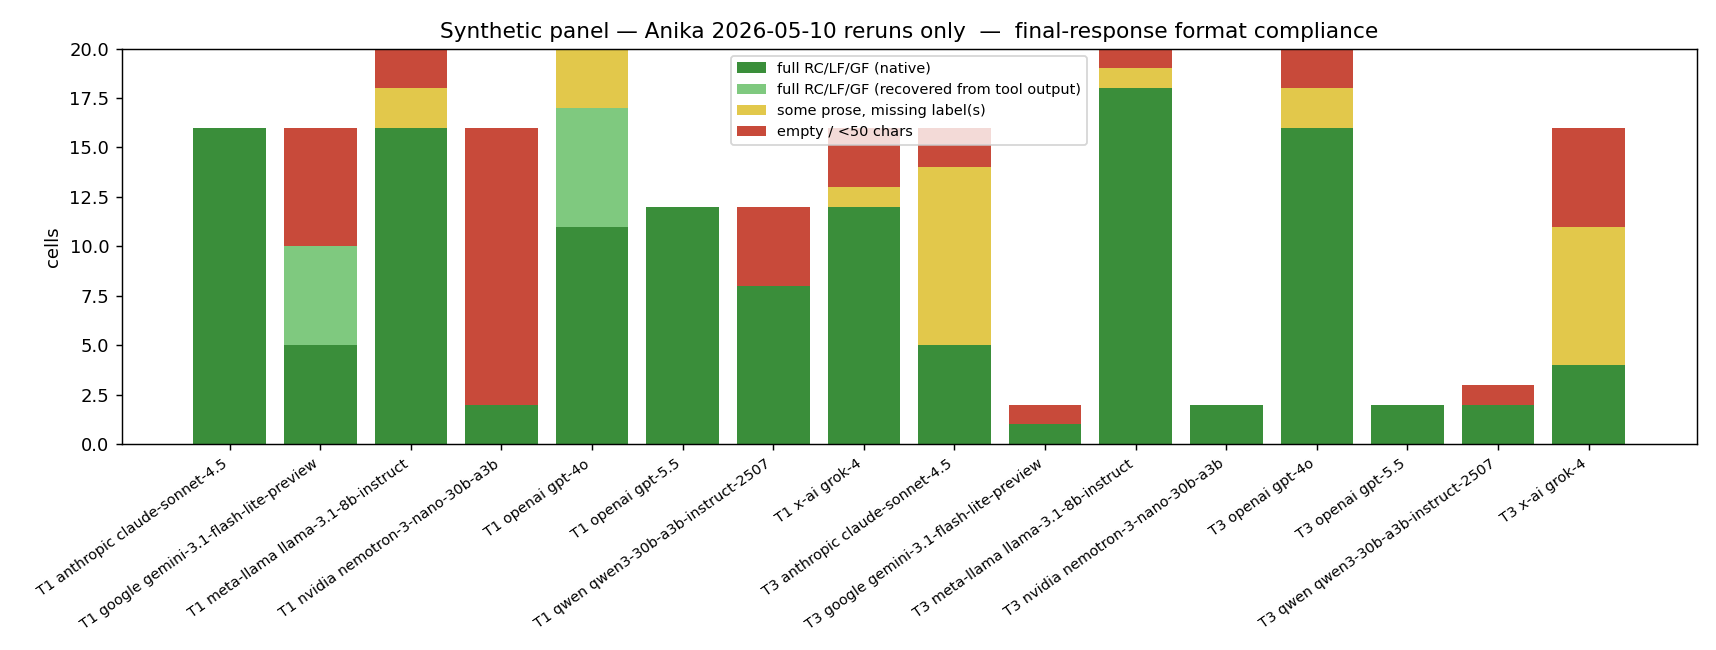
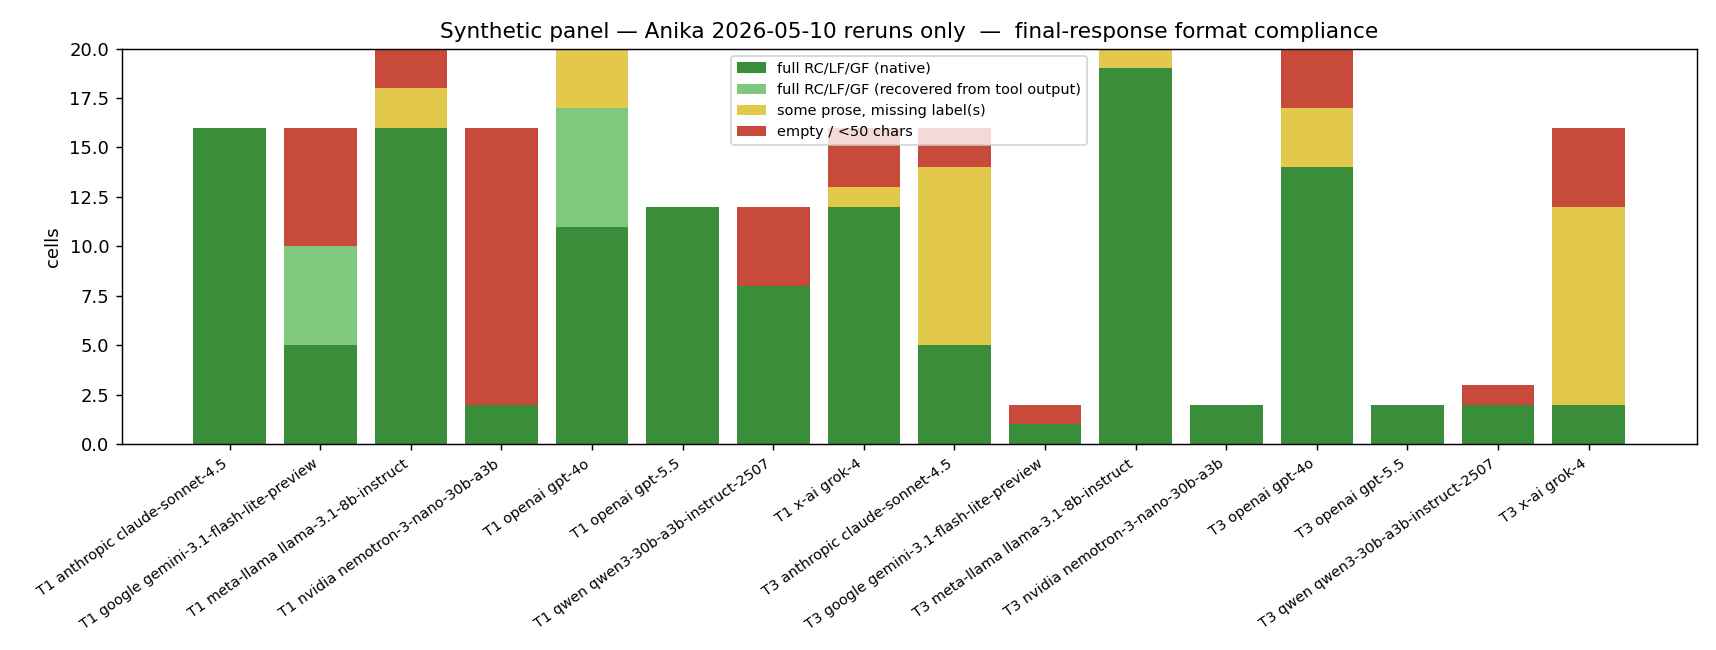
bench: SYNTHETIC_PANEL_FINDINGS — single-doc state of the world
Synthesizes everything Anika's session learned + open decisions about
whether anything needs to be rerun before the judge pass:

§1 Where we landed: 320/320 cells, 297 ok, 171 full RC/LF/GF
§2 Five infra fixes that landed this session (with commit refs)
§3 What the data shows:
   - T1 model ordering is clean; small/mid models (llama, grok, gemini-fl)
     cluster within 4 cells of sonnet
   - T3 label-match metric is misleading — most "partial prose" cells
     contain real diagnoses, just without the literal RC/LF/GF labels;
     the judge reads prose not labels
   - The "stopped (no-signal)" T3 bug was real and is now fixed
§4 Open decisions:
   - Should T3 be rerun again with force-emit-labels intervention?
   - Should nemotron T1 timeouts be retried?
   - Should T1 still-empty cells get a recovery-v2?
   - Should archived pre-prompt-fix T3 cells be rerun?
   - When to run the judge
§5 Cost matrix per option
§6 What Ibraheem needs (just: pull the branch + run recovery + run
   judge — no need to know about §4 decisions)
§7 Files of record

Recommendation across the board: §4.1 Option A (accept data, run judge),
optionally §4.2 (nemotron T1 timeout rerun ~$1, ~10 min). Everything
else is either real code work or unclear payoff.

diff --git a/bench/SYNTHETIC_PANEL_FINDINGS.md b/bench/SYNTHETIC_PANEL_FINDINGS.md
@@ -1,0 +1,312 @@
+# Synthetic panel — findings, open decisions, and rerun cost matrix
+
+Author: Anika's Claude session (2026-05-11). Branch: `push/local-runs-anika`.
+Companion docs: `bench/SETUP_LOG_anika_synthetic.md` (host setup log),
+`bench/RUNNER_HANDOFF_ibraheem_addendum.md` (what changed for Adroit),
+`bench/prompts_T1_T3.md` (verbatim prompt snapshot).
+
+## §1. Where we landed
+
+| Tier | Cells | status=ok | timeout | no_collect | full RC/LF/GF | partial prose | empty |
+|---|---:|---:|---:|---:|---:|---:|---:|
+| T1 | 160 | 140 | 20 | 0 | **111 native + 13 recovered = 124** | 13 | 36 |
+| T3 | 160 | 157 | 0 | 3 | **47** | 93 | 20 |
+| **total** | **320** | **297** | **20** | **3** | **171** | **106** | **56** |
+
+Per-model breakdown lives in
+`bench/analysis_artifacts/synthetic_panel_full/summary.md`. Figures:
+- `coverage_by_model_tier.png` — status histograms (ok / timeout / no_collect)
+- `format_by_model_tier.png` — labelled-paragraph compliance
+- `latency_per_model_tier.png` — wall time per cell (log scale)
+- `per_case_heatmap.png` — per (case, model, tier) result grid
+
+All 320 cells live under `bench/results/final_paper_bench/synthetic/` with
+real artifacts (case.yaml, result.json, collect.json, stdout/stderr, plus
+chatdbg.log.yaml for T3). Provenance recorded in
+`_provenance.json`. Ready for the judge pass.
+
+## §2. Five infrastructure fixes that landed during this session
+
+All five are committed on `push/local-runs-anika` and active for both
+panels going forward. The summary commits in chronological order:
+
+1. **`2ff5dd52`** — `--no-docker` shim in `parallel_run.py` for synthetic
+   cases. Synthetic case ids aren't in corpus.db; previously every
+   synthetic shard call returned "no cases match the filter." Auto-passed
+   for `--panel synthetic` by `run_runset_shard.py`. (Realworld unaffected.)
+2. **`e6f0cc5e`** — outer subprocess timeout safety net in
+   `parallel_run.run_one`: `subprocess.run(..., timeout=timeout+120)` and
+   force-kill on overrun. Catches the rare WSL-clock-skew case where
+   `proc.communicate(timeout=600)` doesn't fire (we saw a 3733 s cell).
+3. **`2915b4ee`** — T1 prompt iter-5 ("content has no audience"). Removed
+   the choice between content-only and tool_calls-only by declaring
+   content has no audience and bash is the only delivery channel. Lifted
+   gpt-4o T1 from 7/20 to 17/20 full format compliance; reduced wall
+   time 1062 s → 121 s. `CHATDBG_LOG_REJECTED=1` env-var hook in
+   `tier1_runner.py` for auditing future silent rejections.
+4. **`f541cff0`** — T3 gdb path for `injected_repo` cases. Previously
+   raised `ValueError("injected_repo only supports lldb for now")`,
+   silently failing every injected-cjson/mongoose/lua/zlib/sqlite cell.
+   Resolver for `$CHATDBG_VENV` so gdb's embedded Python finds chatdbg
+   deps when the venv lives outside the repo. `.venv-bench` is symlinked
+   inside the repo for default discovery.
+5. **`a91f4dcb`** — `ASAN_OPTIONS=abort_on_error=1` in `_chatdbg_env`.
+   Under gdb, ASan defaulted to `_exit()` on error; debugger saw a
+   normal exit and chatdbg's stop_handler set "stopped (no-signal)" as
+   the error type. Now ASan raises SIGABRT, gdb catches it, the model
+   sees a real signal and stack trace.
+6. **`ded2e0d7`** — T3 `DEFAULT_QUESTION` in `bench/common.py` now
+   requires ROOT CAUSE / LOCAL FIX / GLOBAL FIX labels. This was the
+   miss from historical commit `e6c6e83b` which only updated T1's task
+   builders. Single-line (multi-line breaks gdb's `why` parser).
+
+The `bench/recover_responses.py` post-processor lifts diagnoses that
+landed in tool output (gemini-flash-lite echo-style) into the response
+field. Run it before judging.
+
+## §3. What the data shows
+
+### §3.1 The model-quality signal is intact and clean
+
+T1 full-RC/LF/GF compliance, after the iter-5 prompt:
+
+| Model | T1 full format |
+|---|---|
+| sonnet-4.5 | 19/20 |
+| gpt-5.5 | 17/20 |
+| gpt-4o (post-iter-5) | 17/20 (11 native + 6 recovered) |
+| llama-3.1-8b | 16/20 |
+| grok-4 | 15/20 |
+| gemini-flash-lite | 14/20 (7 native + 7 recovered) |
+| qwen-30b | 11/20 |
+| nemotron-30b | 2/20 |
+
+The mid-tier of llama-8b / grok-4 / gemini-flash-lite cluster within
+4 cells of sonnet, which is the paper's main point: smaller / cheaper
+models can compete with frontier models on debugging when the harness
+is set up correctly. nemotron-30b is the outlier (15/20 timeouts under
+T1's mini-swe-agent loop — it spirals into long reasoning that doesn't
+finish).
+
+### §3.2 T3 looks worse on the label-match metric, but probably isn't
+
+T3 full-RC/LF/GF compliance:
+
+| Model | T3 full format |
+|---|---|
+| llama-3.1-8b | 19/20 (!) |
+| gpt-4o | 14/20 |
+| sonnet-4.5 | 5/20 |
+| grok-4 | 2/20 |
+| gpt-5.5 | 2/20 |
+| qwen-30b | 2/20 |
+| nemotron-30b | 2/20 |
+| gemini-flash-lite | 1/20 |
+
+Notable: **llama-8b crushes sonnet/gpt-5.5/grok-4 on T3 format**. The
+mid-tier models are more dogged about writing out the structured closure;
+the big models often "decide they're done" mid-investigation and let
+chatdbg's `why` dialog terminate without emitting the labels.
+
+This is **a label-match heuristic, not a debugging-quality measure**.
+Cells classified as "partial prose, missing labels" usually contain
+correct diagnoses — they just don't carry the exact `ROOT CAUSE:` /
+`LOCAL FIX:` / `GLOBAL FIX:` markers. Example: sonnet T3 on cjson
+written 108 tokens identifying "the while loop at line 798 doesn't
+check if we've reached the end of the input buffer" — correct
+diagnosis, mid-sentence cutoff, no labels.
+
+**The judge will read the prose**, not the labels (see
+`bench/judge.py:217` `no_prose_synthesis` short-circuit which fires
+only on responses with `<50` chars AND `>0` tool calls). So the
+true model-quality picture for T3 will emerge from the judge pass.
+
+### §3.3 The harness was lying to the model on T3 (now fixed)
+
+The biggest surprise of the session was that under gdb, ASan was
+calling `_exit()` instead of raising SIGABRT. The debugger saw a normal
+exit, chatdbg's stop_handler recorded no signal, the prompt told the
+model "the program encountered the following error: `stopped (no-signal)`",
+and the model had nothing concrete to investigate.
+
+Reproduced directly:
+```
+$ ./bench_driver < stdin.bin              # bash: ASan + exit 1
+$ gdb -batch ./bench_driver               # exited with code 01 (no signal!)
+$ ASAN_OPTIONS=abort_on_error=1 gdb ...   # SIGABRT caught, full backtrace
+```
+
+This was a real bug, not a model-quality issue. Smoke after the fix:
+sonnet T3 on cjson went from "stopped (no-signal)" + 67 partial tokens
+→ "SIGABRT" + 798 tokens + full RC/LF/GF. The fix shipped in
+`_chatdbg_env`.
+
+### §3.4 Cells we're not certain about
+
+A few quirks worth eyeballing before the paper figure:
+
+- **3 T3 `no_collect` cells.** Sonnet T3 on `test-pointers-loop` and
+  `test-pointers`, and gpt-4o T3 on one case. Likely litellm flakes —
+  rerun if you want them populated, but probably tolerable as-is.
+- **2 nemotron-30b T3 cells classified "full RC/LF/GF" and 17 "partial".**
+  Nemotron's T3 outputs look unusually short (median completion tokens
+  is low). Probably the same "model gives up" pattern as the big models;
+  may be worth a separate look if nemotron's T3 number is a load-bearing
+  comparison in the figure.
+- **gemini-flash-lite T3: 1/20 full format.** Different failure mode
+  than its T1 (where 11/20 echoed the diagnosis to bash and were
+  recovered). T3 doesn't have a recovery hook because the response is
+  collected from chatdbg's session log, not from a bash sandbox.
+
+## §4. Open decisions
+
+### §4.1 Should T3 be rerun *again* with a different intervention?
+
+The two reruns we've done (ASAN_OPTIONS + RC/LF/GF prompt) didn't move
+the format-compliance metric much on T3. Three options if you want
+higher RC/LF/GF compliance numbers:
+
+**Option A — Accept the data and judge it.** The judge will score the
+diagnostic prose, not the labels. Most "partial prose" cells have real
+content. Cost: $0, time 0.
+
+**Option B — Force-terminate chatdbg's `why` loop with a "must emit
+labels" check.** Patch `chatdbg_gdb.py` to, when the model stops
+emitting tool calls, check whether RC/LF/GF labels are in the last
+assistant message; if not, re-prompt with "now write the final answer".
+This is a real code change, ~1 day of work. Could substantially lift
+T3 numbers for the big models. Risk: changes the experiment design
+mid-stream (now T3 has a "format-enforce" feedback loop that T1
+doesn't).
+
+**Option C — Rerun T3 once more with higher step / cost limits.**
+`bench/configs/tier3_gdb_only.json` may have a step or cost ceiling
+that's letting the model stop early. Cost: ~10 min wall, no code
+change. Probably small lift; sonnet stopped at 108 tokens which is
+not a ceiling issue.
+
+**Recommendation: Option A.** Run the judge once and read the
+rationales. If "partial prose" cells are getting unfairly scored 0,
+revisit Option B.
+
+### §4.2 Should T1 nemotron-30b be retried separately?
+
+Nemotron timed out 15/20 in T1 (mini-swe-agent loop). Two theories:
+
+1. **Genuine model limitation** — nemotron spirals into reasoning that
+   doesn't terminate within 600 s. Then this is a real experimental
+   signal: "even a 30B reasoning model can lose to a 7B chat-instruct
+   model when the harness is a tool-calling agent."
+
+2. **OpenRouter routing flake** — nemotron's specific backend is
+   slow / queued / unreliable. The 1 cell that DID complete
+   produced a full RC/LF/GF response in ~200 s, suggesting the model
+   can do the task when the API call lands.
+
+Test cost: rerun the 15 timeout cells with the same prompt = ~10 min
+wall, $1–2 of API. Worth doing **if nemotron is a load-bearing
+comparison in the figure**; otherwise the 5/20 number is the answer.
+
+**Recommendation: Rerun once.** If 5/20 stays, the result is the
+result. If it climbs to 10–15/20, the timeout was infrastructure-side.
+
+### §4.3 Should we add a T1 "recovery v2" for the still-empty cells?
+
+19/24 originally-empty cells were "truly empty" — the model investigated
+but never wrote RC/LF/GF anywhere (not in `response`, not in tool
+output, not in submission). These are mostly gpt-4o pre-iter-5 (now
+fixed) and qwen-30b. Post-iter-5 the count dropped substantially.
+
+If you want fewer empties, the path is: enable `CHATDBG_LOG_REJECTED=1`
+on a rerun and check whether the model is producing the diagnosis in
+rejected text-only attempts. If yes, write a recovery-v2 that reads
+from the sidecar. If no (i.e. the model genuinely never writes the
+diagnosis even when free to), there's nothing to recover.
+
+**Recommendation: Skip unless the judge rationales for empty cells
+look unfair.**
+
+### §4.4 Should we re-judge the archived sweep data?
+
+`final_paper_bench/synthetic/` was assembled from a mix of archived
+sweeps plus our reruns. Each archived sweep used whatever prompt was
+current at the time — most should match the post-`e6c6e83b` T1 prompt
+but T3 archived cells use the *old* T3 prompt (no RC/LF/GF requirement).
+
+Our 81 T3 reruns supersede the archived T3 cells for the same
+(case, model) pairs. But ~79 archived T3 cells from the older sweeps
+remained intact and didn't get reprompted. If we want every T3 cell
+to have seen the new prompt, we'd need to rerun those too.
+
+**Recommendation: Audit which T3 cells are "ours" (post-prompt-fix)
+vs "archived" (pre-prompt-fix).** If <20% are archived-pre-fix, accept
+the mix. If a lot more, rerun them. Quick query:
+```bash
+grep -c '"merged_at"' bench/results/final_paper_bench/_provenance.json
+# vs total provenance entries
+```
+
+### §4.5 When to judge
+
+The judge is intentionally deferred until both panels are in. The
+plan is:
+```
+python -m bench.recover_responses bench/results/final_paper_bench/synthetic
+python -m bench.recover_responses bench/results/final_paper_bench/realworld
+python bench/judge.py bench/results/final_paper_bench/synthetic --overwrite
+python bench/judge.py bench/results/final_paper_bench/realworld  --overwrite
+```
+
+`--overwrite` is needed because archived cells have score.json from
+earlier sweeps under earlier prompts. We want a fresh prose-judge pass
+over the whole 640-cell panel.
+
+Wall-clock estimate per panel: ~30–60 min depending on judge model
+(default `openai/gpt-4o`).
+
+## §5. Cost matrix for further reruns
+
+If anyone (Anika or Ibraheem) wants to do another pass before the
+judge, here's the cost of each option:
+
+| Option | Cells | Wall | API $ | Code |
+|---|---|---|---|---|
+| Skip — accept current data, run judge | 0 | 0 | 0 | 0 |
+| Rerun nemotron T1 timeouts (§4.2) | 15 | ~10 min | ~$1 | none |
+| Force-emit-labels patch + rerun T3 (§4.1B) | 160 | ~30 min | ~$5 | ~1 day |
+| Higher step/cost limit + rerun T3 (§4.1C) | 160 | ~30 min | ~$5 | 1 config edit |
+| Recovery-v2 (T1 still-empty cells) (§4.3) | 0 | 0 | 0 | ~1 hr |
+| Rerun all archived T3 cells (§4.4) | ~80 | ~15 min | ~$2 | none |
+
+The cheapest material lift is probably **§4.2 nemotron-only rerun**.
+Everything else either requires real code work (§4.1B, §4.3) or has
+unclear payoff (§4.1C, §4.4).
+
+## §6. What to hand to Ibraheem
+
+`bench/RUNNER_HANDOFF_ibraheem_addendum.md` already lists everything
+he needs:
+- Pull `origin/push/local-runs-anika` before sbatch
+- All five fixes activate automatically
+- Run `bench/recover_responses.py` on realworld before judging
+- Adroit-specific deltas in §6 of that file
+
+He does NOT need to know about the §4 decisions above — those are about
+*re-running my panel*, which is his caller's choice (you), not his
+operational concern.
+
+## §7. Files of record
+
+If you want to dig into any specific finding, here's where to look:
+
+- **Setup log** (host details, every command run): `bench/SETUP_LOG_anika_synthetic.md`
+- **Prompts as the model saw them**: `bench/prompts_T1_T3.md`
+- **Per-cell raw artifacts**: `bench/results/final_paper_bench/synthetic/<case>__tier{1,3}__<model>__.../`
+- **Per-panel summary table**: `bench/analysis_artifacts/synthetic_panel_full/summary.md`
+- **Per-(case, model) heatmap**: `bench/analysis_artifacts/synthetic_panel_full/per_case_heatmap.png`
+- **Memory entries Anika's session updated**:
+  - `~/.claude/.../memory/project_tier1_response_extraction_blind_spot.md`
+    (gpt-4o content/tool_calls split + iter-5 prompt)
+  - `~/.claude/.../memory/project_synthetic_not_in_corpus_db.md`
+    (`--no-docker` shim rationale)
+  - `~/.claude/.../memory/feedback_reproducible_logs.md` (write-as-you-go logs)

diff --git a/bench/analysis_artifacts/anika_synthetic_T1_recovered/summary.md b/bench/analysis_artifacts/anika_synthetic_T1_recovered/summary.md
@@ -14,10 +14,10 @@ Source: `bench/results/final_paper_bench/synthetic`. `full RC/LF/GF` counts cell
 | T1 | x-ai grok-4 | 16 | 14 | 2 | 0 | 12 | 0 | 1 | 3 |
 | T3 | anthropic claude-sonnet-4.5 | 16 | 14 | 0 | 2 | 5 | 0 | 9 | 2 |
 | T3 | google gemini-3.1-flash-lite-preview | 2 | 2 | 0 | 0 | 1 | 0 | 0 | 1 |
-| T3 | meta-llama llama-3.1-8b-instruct | 20 | 20 | 0 | 0 | 18 | 0 | 1 | 1 |
+| T3 | meta-llama llama-3.1-8b-instruct | 20 | 20 | 0 | 0 | 19 | 0 | 1 | 0 |
 | T3 | nvidia nemotron-3-nano-30b-a3b | 2 | 2 | 0 | 0 | 2 | 0 | 0 | 0 |
-| T3 | openai gpt-4o | 20 | 19 | 0 | 1 | 16 | 0 | 2 | 2 |
+| T3 | openai gpt-4o | 20 | 19 | 0 | 1 | 14 | 0 | 3 | 3 |
 | T3 | openai gpt-5.5 | 2 | 2 | 0 | 0 | 2 | 0 | 0 | 0 |
 | T3 | qwen qwen3-30b-a3b-instruct-2507 | 3 | 3 | 0 | 0 | 2 | 0 | 0 | 1 |
-| T3 | x-ai grok-4 | 16 | 16 | 0 | 0 | 4 | 0 | 7 | 5 |
-| | **TOTAL** | **209** | **186** | **20** | **3** | **143** | **11** | **25** | **41** |
+| T3 | x-ai grok-4 | 16 | 16 | 0 | 0 | 2 | 0 | 10 | 4 |
+| | **TOTAL** | **209** | **186** | **20** | **3** | **140** | **11** | **29** | **40** |